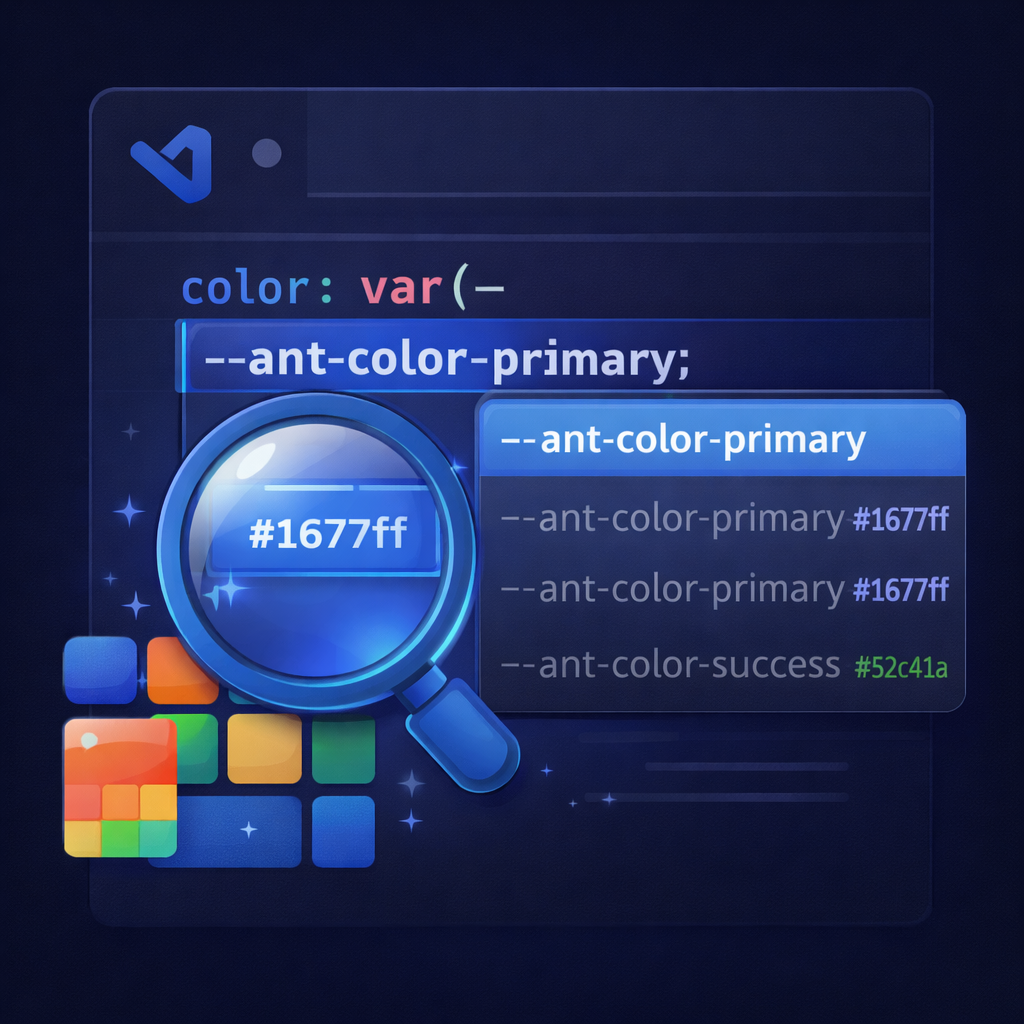
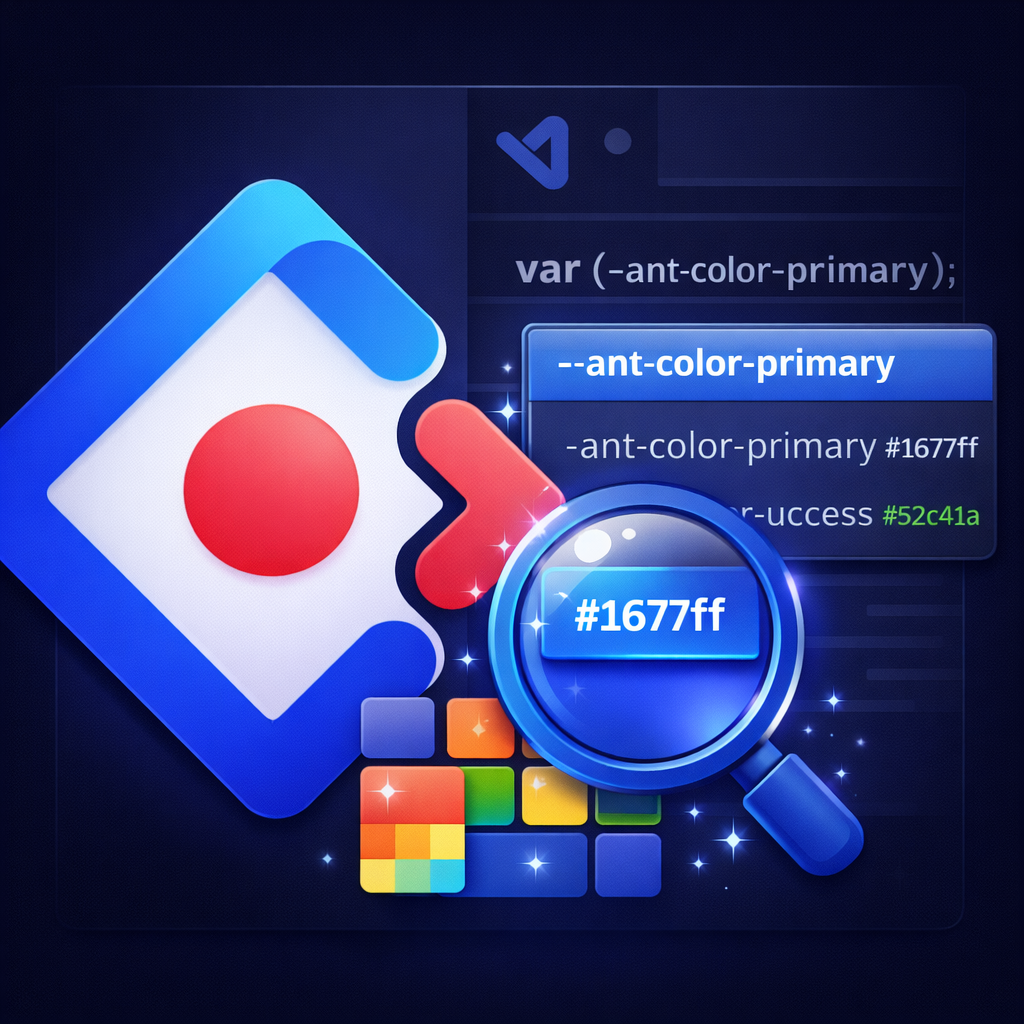
refactor: 解决部分eslint警告&修改插件icon

diff --git a/src/utils/config.ts b/src/utils/config.ts
@@ -1,4 +1,7 @@
 import * as vscode from 'vscode';
+// 定义类型别名
+type HoverVerbosity = 'minimal' | 'normal' | 'detailed';
+type CompletionDetailLevel = 'minimal' | 'normal' | 'detailed';
 
 /**
  * 配置管理工具
@@ -72,10 +75,10 @@ export class Config {
   /**
    * 获取 Hover 详细程度
    */
-  static getHoverVerbosity(): 'minimal' | 'normal' | 'detailed' {
+  static getHoverVerbosity(): HoverVerbosity {
     return vscode.workspace
       .getConfiguration('antdToken')
-      .get('hoverVerbosity', 'normal') as 'minimal' | 'normal' | 'detailed';
+      .get('hoverVerbosity', 'normal') as HoverVerbosity;
   }
 
   /**
@@ -90,7 +93,7 @@ export class Config {
   /**
    * 获取补全项详细程度
    */
-  static getCompletionDetailLevel(): 'minimal' | 'normal' | 'detailed' {
+  static getCompletionDetailLevel(): CompletionDetailLevel {
     return vscode.workspace
       .getConfiguration('antdToken')
       .get('completionDetailLevel', 'normal') as

diff --git a/src/providers/completionProvider.ts b/src/providers/completionProvider.ts
@@ -19,7 +19,7 @@ export class AntdTokenCompletionProvider
   private readonly MAX_COMPLETION_ITEMS = 50;
 
   // 缓存
-  private completionCache = new Map<
+  private readonly completionCache = new Map<
     string,
     { timestamp: number; items: vscode.CompletionItem[]; isIncomplete: boolean }
   >();
@@ -30,10 +30,10 @@ export class AntdTokenCompletionProvider
   private lastFilteredTokens: any[] = [];
 
   constructor(
-    private tokenRegistry: TokenRegistry,
-    private themeManager: ThemeManager,
-    private hoverContentBuilder: HoverContentBuilder,
-    private context?: vscode.ExtensionContext
+    private readonly tokenRegistry: TokenRegistry,
+    private readonly themeManager: ThemeManager,
+    private readonly hoverContentBuilder: HoverContentBuilder,
+    private readonly context?: vscode.ExtensionContext
   ) {}
 
   /**

diff --git a/src/providers/hoverContentBuilder.ts b/src/providers/hoverContentBuilder.ts
@@ -2,8 +2,7 @@ import * as vscode from 'vscode';
 import { TokenInfo, TokenRegistry } from '@/tokenManager/tokenRegistry';
 import { ThemeManager } from '@/tokenManager/themeManager';
 import { Config } from '@/utils/config';
-import { ColorConverter, ColorFormats } from '@/utils/colorConverter';
-import { ColorContrast } from '@/utils/colorContrast';
+import { ColorConverter } from '@/utils/colorConverter';
 
 /**
  * Hover 内容构建器
@@ -310,10 +309,8 @@ export class HoverContentBuilder {
    */
   private getSourceLabel(source: string): string {
     const labels: Record<string, string> = {
-      builtin: 'Ant Design 官方',
-      custom: '自定义',
-      css: 'CSS 文件',
-      js: 'JS/TS 文件'
+      builtin: 'Ant Design',
+      custom: '自定义'
     };
     return labels[source] || source;
   }

diff --git a/esbuild.js b/esbuild.js
@@ -26,8 +26,8 @@ const esbuildProblemMatcherPlugin = {
   }
 };
 
-const fs = require('fs');
-const path = require('path');
+const fs = require('node:fs');
+const path = require('node:path');
 
 // Plugin to copy assets
 const copyAssetsPlugin = {
@@ -99,7 +99,9 @@ async function main() {
   }
 }
 
-main().catch((e) => {
+try {
+  await main();
+} catch (e) {
   console.error(e);
   process.exit(1);
-});
+}

diff --git a/src/providers/colorDecorator.ts b/src/providers/colorDecorator.ts
@@ -32,8 +32,6 @@ export class ColorDecorator {
     // 先清除旧装饰
     this.clear(editor);
 
-    const style = Config.getDecoratorStyle();
-
     // 按颜色分组 Token
     const colorGroups = new Map<string, vscode.Range[]>();
 
